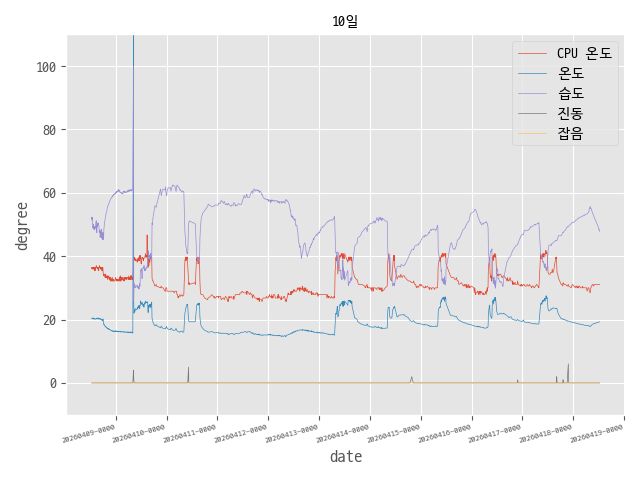
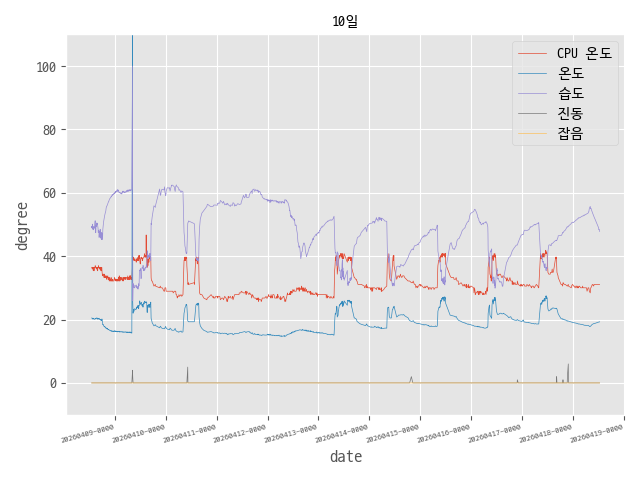
monitor_20260418 13:08

diff --git a/index.html b/index.html
@@ -1,1 +1,1 @@
-<!doctype html><html><head><meta charset="utf-8"><meta https-equiv="refresh" content="120"><title>SPT 환경 측정 데이터</title></head><body><h1>SPT 환경 측정 데이터</h1><br><h2>측정시간 : 20260418-1238</h2><table border = "1"><tr><td><img src=https://redfivezero.github.io/spt/monitor-01D.png></td><td><img src=https://redfivezero.github.io/spt/monitor-03D.png></td><td><img src=https://redfivezero.github.io/spt/monitor-05D.png></td></tr><tr><td><img src=https://redfivezero.github.io/spt/monitor-10D.png></td><td><img src=https://redfivezero.github.io/spt/monitor-30D.png></td><td><img src=https://redfivezero.github.io/spt/monitor-90D.png></td></tr></table<table border = "1"><tr><td><img src=https://redfivezero.github.io/spt/monitor-01D-wol.png></td><td><img src=https://redfivezero.github.io/spt/monitor-03D-wol.png></td><td><img src=https://redfivezero.github.io/spt/monitor-05D-wol.png></td></tr><tr><td><img src=https://redfivezero.github.io/spt/monitor-10D-wol.png></td><td><img src=https://redfivezero.github.io/spt/monitor-30D-wol.png></td><td><img src=https://redfivezero.github.io/spt/monitor-90D-wol.png></td></tr></table/<body></html>
+<!doctype html><html><head><meta charset="utf-8"><meta https-equiv="refresh" content="120"><title>SPT 환경 측정 데이터</title></head><body><h1>SPT 환경 측정 데이터</h1><br><h2>측정시간 : 20260418-1308</h2><table border = "1"><tr><td><img src=https://redfivezero.github.io/spt/monitor-01D.png></td><td><img src=https://redfivezero.github.io/spt/monitor-03D.png></td><td><img src=https://redfivezero.github.io/spt/monitor-05D.png></td></tr><tr><td><img src=https://redfivezero.github.io/spt/monitor-10D.png></td><td><img src=https://redfivezero.github.io/spt/monitor-30D.png></td><td><img src=https://redfivezero.github.io/spt/monitor-90D.png></td></tr></table<table border = "1"><tr><td><img src=https://redfivezero.github.io/spt/monitor-01D-wol.png></td><td><img src=https://redfivezero.github.io/spt/monitor-03D-wol.png></td><td><img src=https://redfivezero.github.io/spt/monitor-05D-wol.png></td></tr><tr><td><img src=https://redfivezero.github.io/spt/monitor-10D-wol.png></td><td><img src=https://redfivezero.github.io/spt/monitor-30D-wol.png></td><td><img src=https://redfivezero.github.io/spt/monitor-90D-wol.png></td></tr></table/<body></html>